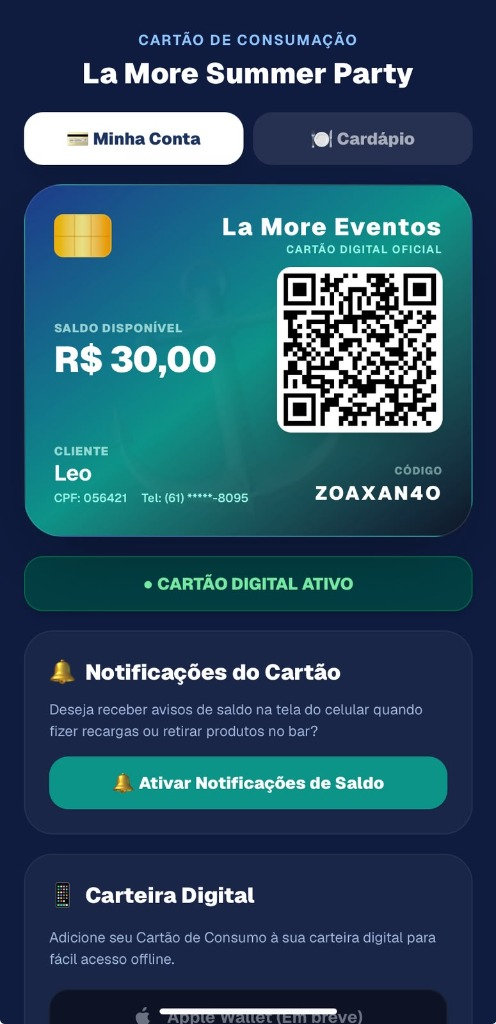
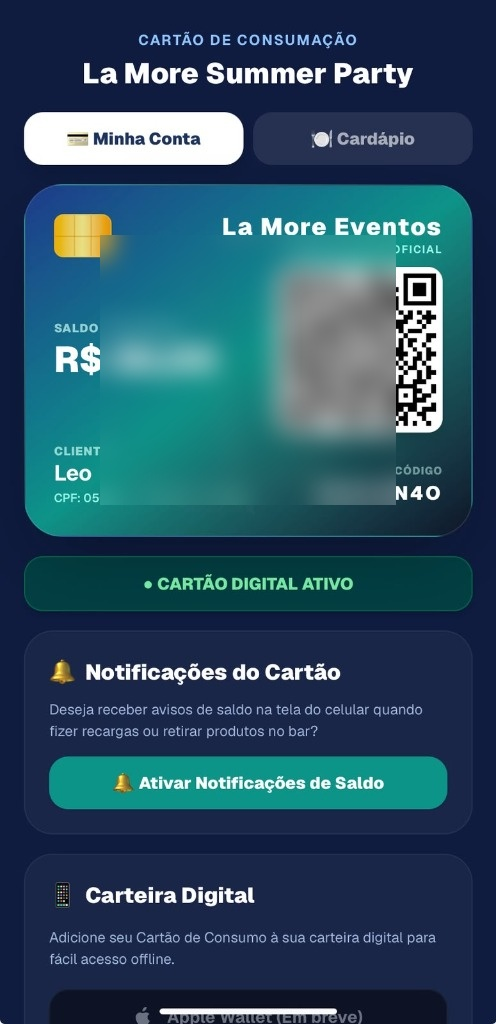
Organiza navbar em 2 linhas no mobile aplica desfoque seguro no QR Code e ajusta enquadramento total da tela do operador

diff --git a/style.css b/style.css
@@ -88,14 +88,14 @@ body {
 }
 
 /* ==========================================================================
-   NAVBAR (DESKTOP & MOBILE RESPONSIVE)
+   NAVBAR (DESKTOP & 2-ROW MOBILE LAYOUT)
    ========================================================================== */
 .navbar {
     display: flex;
     justify-content: space-between;
     align-items: center;
     padding: 0.85rem 5%;
-    background: rgba(11, 15, 25, 0.85);
+    background: rgba(11, 15, 25, 0.9);
     backdrop-filter: blur(20px);
     -webkit-backdrop-filter: blur(20px);
     border-bottom: 1px solid var(--glass-border);
@@ -104,15 +104,20 @@ body {
     top: 0;
     left: 0;
     z-index: 1000;
-    box-shadow: 0 4px 20px rgba(0, 0, 0, 0.4);
+    box-shadow: 0 4px 25px rgba(0, 0, 0, 0.45);
     height: 76px;
-    flex-wrap: nowrap;
+    transition: all 0.3s ease;
+}
+
+.nav-top-row {
+    display: flex;
+    align-items: center;
 }
 
 .logo-link {
     display: flex;
     align-items: center;
-    gap: 10px;
+    gap: 12px;
     text-decoration: none;
     flex-shrink: 0;
 }
@@ -142,7 +147,7 @@ body {
 }
 
 /* Nav Actions Container */
-.nav-right {
+.nav-actions-row {
     display: flex;
     align-items: center;
     gap: 12px;
@@ -154,7 +159,7 @@ body {
     display: inline-flex;
     align-items: center;
     gap: 8px;
-    padding: 0.65rem 1.15rem;
+    padding: 0.65rem 1.25rem;
     border-radius: 12px;
     background: rgba(59, 130, 246, 0.12);
     border: 1px solid rgba(59, 130, 246, 0.35);
@@ -186,7 +191,7 @@ body {
     display: inline-flex;
     align-items: center;
     gap: 8px;
-    padding: 0.65rem 1.25rem;
+    padding: 0.65rem 1.35rem;
     border-radius: 12px;
     background: var(--success);
     color: #ffffff;
@@ -208,14 +213,6 @@ body {
 
 .btn-consultor i {
     font-size: 1.1rem;
-}
-
-/* Classes para alternar textos entre desktop e mobile */
-.btn-label-mobile {
-    display: none;
-}
-.btn-label-desktop {
-    display: inline;
 }
 
 /* ==========================================================================
@@ -601,37 +598,29 @@ body {
 }
 
 /* ==========================================================================
-   SMARTPHONE MOCKUPS
+   SMARTPHONE MOCKUPS (CRISTAL CLEAR & PERFECTLY FRAMED)
    ========================================================================== */
 .smartphone-mockup {
     position: relative;
-    width: 270px;
-    height: 530px;
-    border: 10px solid #1f2937;
-    border-radius: 38px;
+    width: 290px;
+    max-width: 90vw;
+    height: auto;
+    aspect-ratio: 589 / 1024;
+    border: 8px solid #1f2937;
+    border-radius: 36px;
     background: #0b0f19;
-    box-shadow: 0 25px 50px -12px rgba(0,0,0,0.8), 0 0 30px rgba(59, 130, 246, 0.25), inset 0 0 0 2px rgba(255,255,255,0.1);
+    box-shadow: 0 25px 50px -12px rgba(0,0,0,0.85), 0 0 35px rgba(59, 130, 246, 0.25), inset 0 0 0 2px rgba(255,255,255,0.1);
     overflow: hidden;
     z-index: 10;
-}
-
-.smartphone-notch {
-    position: absolute;
-    top: 0;
-    left: 50%;
-    transform: translateX(-50%);
-    width: 90px;
-    height: 16px;
-    background: #1f2937;
-    border-bottom-left-radius: 12px;
-    border-bottom-right-radius: 12px;
-    z-index: 20;
+    display: flex;
+    align-items: center;
+    justify-content: center;
 }
 
 .app-screen {
     width: 100%;
     height: 100%;
-    object-fit: cover;
+    object-fit: fill;
     display: block;
 }
 
@@ -795,60 +784,63 @@ body {
 }
 
 /* ==========================================================================
-   MOBILE & TABLET RESPONSIVE RULES (CRUCIAL FIX)
+   MOBILE RESPONSIVE RULES (2-ROW SPACIOUS NAVBAR)
    ========================================================================== */
 @media (max-width: 768px) {
     .navbar {
-        height: 64px;
-        padding: 0.5rem 3.5%;
-        box-shadow: 0 4px 15px rgba(0, 0, 0, 0.6);
+        height: auto;
+        padding: 0.75rem 4% 0.75rem;
+        flex-direction: column;
+        gap: 10px;
+        box-shadow: 0 4px 20px rgba(0, 0, 0, 0.7);
+    }
+
+    .nav-top-row {
+        width: 100%;
+        display: flex;
+        justify-content: flex-start;
     }
 
     .logo-img {
-        height: 36px;
+        height: 40px;
     }
 
     .logo-text {
-        font-size: 1.1rem;
+        font-size: 1.25rem;
     }
 
-    .nav-right {
+    /* Linha de Botões Abaixo */
+    .nav-actions-row {
+        width: 100%;
+        display: flex;
+        align-items: center;
+        justify-content: space-between;
+        gap: 10px;
+    }
+
+    /* Botão Bilheteria à Esquerda na Linha de Baixo */
+    .btn-bilheteria {
+        flex: 1;
+        justify-content: center;
+        padding: 0.65rem 0.5rem;
+        font-size: 0.82rem;
+        border-radius: 11px;
         gap: 6px;
     }
 
-    /* Alterna para labels curtos no mobile */
-    .btn-label-desktop {
-        display: none;
-    }
-    .btn-label-mobile {
-        display: inline;
-    }
-
-    /* Botão Bilheteria Compacto */
-    .btn-bilheteria {
-        padding: 0.45rem 0.65rem;
-        font-size: 0.76rem;
-        border-radius: 9px;
-        gap: 5px;
-    }
-    .btn-bilheteria i {
-        font-size: 0.8rem;
-    }
-
-    /* Botão WhatsApp Compacto e Proporcional */
+    /* Botão WhatsApp / Consultor à Direita na Linha de Baixo */
     .btn-consultor {
-        padding: 0.45rem 0.75rem;
-        font-size: 0.78rem;
-        border-radius: 9px;
-        gap: 5px;
-    }
-    .btn-consultor i {
-        font-size: 0.95rem;
+        flex: 1;
+        justify-content: center;
+        padding: 0.65rem 0.5rem;
+        font-size: 0.82rem;
+        border-radius: 11px;
+        gap: 6px;
     }
 
-    /* Container e Hero */
+    /* Container com espaçamento proporcional */
     .container {
-        padding: 85px 4% 3rem;
+        padding: 145px 4% 3rem;
     }
 
     .hero {
@@ -857,7 +849,7 @@ body {
     }
 
     .hero-content h1 {
-        font-size: 2.15rem;
+        font-size: 2.2rem;
         letter-spacing: -0.5px;
         margin-bottom: 1rem;
     }
@@ -903,9 +895,8 @@ body {
     }
 
     .smartphone-mockup {
-        width: 230px;
-        height: 450px;
-        border-width: 8px;
+        width: 250px;
+        border-width: 6px;
         border-radius: 30px;
     }
 
@@ -933,20 +924,20 @@ body {
 /* Telas muito pequenas (< 380px) */
 @media (max-width: 380px) {
     .navbar {
-        padding: 0.4rem 2.5%;
+        padding: 0.65rem 3%;
     }
 
     .logo-text {
-        font-size: 0.95rem;
+        font-size: 1.1rem;
     }
 
     .btn-bilheteria {
-        padding: 0.4rem 0.5rem;
-        font-size: 0.7rem;
+        font-size: 0.76rem;
+        padding: 0.55rem 0.4rem;
     }
 
     .btn-consultor {
-        padding: 0.4rem 0.6rem;
-        font-size: 0.72rem;
+        font-size: 0.76rem;
+        padding: 0.55rem 0.4rem;
     }
 }

diff --git a/index.html b/index.html
@@ -9,7 +9,7 @@
     <link rel="preconnect" href="https://fonts.googleapis.com">
     <link rel="preconnect" href="https://fonts.gstatic.com" crossorigin>
     <link href="https://fonts.googleapis.com/css2?family=Outfit:wght@300;400;500;600;700;800;900&display=swap" rel="stylesheet">
-    <link rel="stylesheet" href="style.css?v=2">
+    <link rel="stylesheet" href="style.css?v=3">
     <link rel="stylesheet" href="https://cdnjs.cloudflare.com/ajax/libs/font-awesome/6.4.0/css/all.min.css">
 </head>
 <body>
@@ -22,22 +22,23 @@
 
     <!-- Header / Navbar -->
     <nav class="navbar">
-        <div class="logo">
-            <a href="index.html" class="logo-link">
-                <img src="logo-final.png?v=11" alt="La More Eventos Logo" class="logo-img">
-                <span class="logo-text">La More <span class="logo-gradient">Eventos</span></span>
-            </a>
+        <div class="nav-top-row">
+            <div class="logo">
+                <a href="index.html" class="logo-link">
+                    <img src="logo-final.png?v=11" alt="La More Eventos Logo" class="logo-img">
+                    <span class="logo-text">La More <span class="logo-gradient">Eventos</span></span>
+                </a>
+            </div>
         </div>
-        <div class="nav-right">
+
+        <div class="nav-actions-row">
             <a href="bilheteria.html" class="btn-bilheteria">
                 <i class="fa-solid fa-ticket"></i>
-                <span class="btn-label-desktop">Módulo Bilheteria</span>
-                <span class="btn-label-mobile">Bilheteria</span>
+                <span>Módulo Bilheteria</span>
             </a>
             <a href="https://wa.me/55?text=Ol%C3%A1%2C%20gostaria%20de%20saber%20mais%20sobre%20o%20sistema%20da%20La%20More%20Eventos!" target="_blank" class="btn-consultor" id="chatbotBtn">
                 <i class="fa-brands fa-whatsapp"></i>
-                <span class="btn-label-desktop">Falar com Consultor</span>
-                <span class="btn-label-mobile">Consultor</span>
+                <span>Falar com Consultor</span>
             </a>
         </div>
     </nav>
@@ -123,7 +124,6 @@
                 <!-- Mockup Cartão do Cliente -->
                 <div class="impact-image fadeIn">
                     <div class="smartphone-mockup">
-                        <div class="smartphone-notch"></div>
                         <img src="cartao-cliente.jpg" alt="Cartão de Consumo Digital La More Eventos" class="app-screen">
                     </div>
                     <div class="mockup-glow primary-glow"></div>
@@ -212,10 +212,9 @@
                     </a>
                 </div>
 
-                <!-- Mockup App Operador -->
+                <!-- Mockup App Operador 100% Visível -->
                 <div class="impact-image fadeIn">
                     <div class="smartphone-mockup">
-                        <div class="smartphone-notch"></div>
                         <img src="app-operador.jpg" alt="App do Operador de Bar - Leitor de QR Code" class="app-screen">
                     </div>
                     <div class="mockup-glow secondary-glow"></div>

diff --git a/bilheteria.html b/bilheteria.html
@@ -6,7 +6,7 @@
     <title>Bilheteria - La More Eventos</title>
     <link rel="icon" type="image/png" href="favicon.png">
     <link href="https://fonts.googleapis.com/css2?family=Outfit:wght@300;400;500;600;700;800;900&display=swap" rel="stylesheet">
-    <link rel="stylesheet" href="style.css?v=2">
+    <link rel="stylesheet" href="style.css?v=3">
     <link rel="stylesheet" href="https://cdnjs.cloudflare.com/ajax/libs/font-awesome/6.4.0/css/all.min.css">
 </head>
 <body>
@@ -18,22 +18,23 @@
 
     <!-- Header / Navbar -->
     <nav class="navbar">
-        <div class="logo">
-            <a href="index.html" class="logo-link">
-                <img src="logo-final.png?v=11" alt="La More Eventos Logo" class="logo-img">
-                <span class="logo-text">La More <span class="logo-gradient">Eventos</span></span>
-            </a>
+        <div class="nav-top-row">
+            <div class="logo">
+                <a href="index.html" class="logo-link">
+                    <img src="logo-final.png?v=11" alt="La More Eventos Logo" class="logo-img">
+                    <span class="logo-text">La More <span class="logo-gradient">Eventos</span></span>
+                </a>
+            </div>
         </div>
-        <div class="nav-right">
+
+        <div class="nav-actions-row">
             <a href="index.html" class="btn-bilheteria">
                 <i class="fa-solid fa-arrow-left"></i>
-                <span class="btn-label-desktop">Voltar ao Início</span>
-                <span class="btn-label-mobile">Início</span>
+                <span>Voltar ao Início</span>
             </a>
             <a href="https://wa.me/55?text=Ol%C3%A1%2C%20gostaria%20de%20saber%20mais%20sobre%20a%20Bilheteria%20da%20La%20More%20Eventos!" target="_blank" class="btn-consultor" id="chatbotBtn">
                 <i class="fa-brands fa-whatsapp"></i>
-                <span class="btn-label-desktop">Falar com Consultor</span>
-                <span class="btn-label-mobile">Consultor</span>
+                <span>Falar com Consultor</span>
             </a>
         </div>
     </nav>
